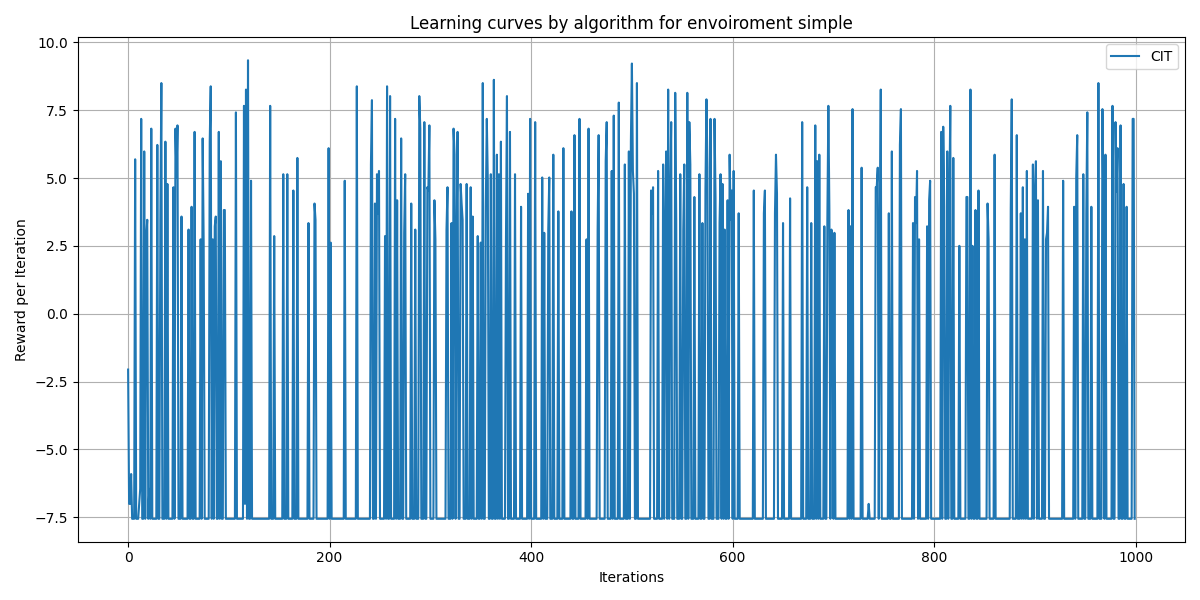
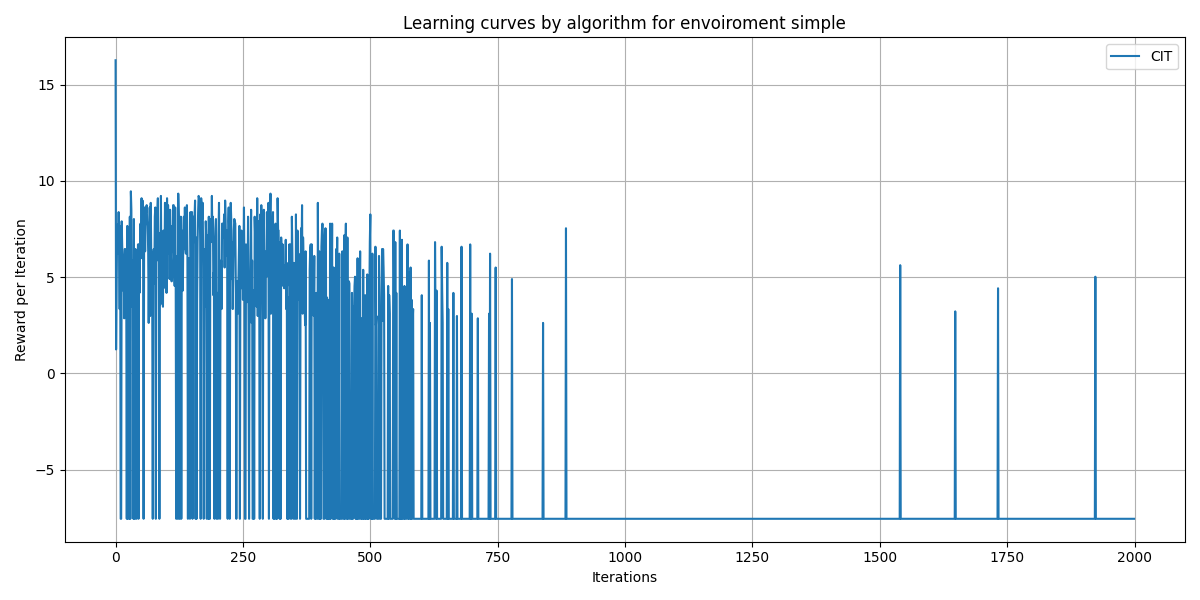
version stable of model

diff --git a/agents/cit_agent.py b/agents/cit_agent.py
@@ -21,12 +21,14 @@ class CITgent:
         self.memory_replay = []  # Neocorteza: rutas con recompensa
         self.familiarity = defaultdict(int)
         self.cortical_memory = [] # Lista de rutas consolidadas
+        
+        self.previous_position = None # Memoria del paso inmediatamente anterior para evitar el ping-pong
 
     def consolidate(self, path, total_reward):
         """Consolida una ruta aprendida si fue eficiente."""
         if not path or len(path) <= 1:
             return
-        
+
         if total_reward < -100:
             return
 
@@ -39,6 +41,7 @@ class CITgent:
 
     def train(self, epsilon=0.1):
         obs, _ = self.env.reset()
+        self.previous_position = None
         self.last_position = tuple(obs)
         total_reward = 0
         path = [self.last_position]
@@ -46,11 +49,12 @@ class CITgent:
         truncated = False
 
         while not (terminated or truncated):
-            action = self.explore(self.last_position, epsilon)
+            action = self.explore(self.last_position, epsilon, prev_pos=self.previous_position)
             next_obs, reward, terminated, truncated, _ = self.env.step(action)
             next_pos = tuple(next_obs)
 
             self.update_hippocampus(self.last_position, next_pos)
+            self.previous_position = self.last_position
             self.last_position = next_pos
             path.append(next_pos)
 
@@ -66,32 +70,58 @@ class CITgent:
 
     def predict(self, obs):
         current = tuple(obs)
+        valid_actions = self.env.get_possible_actions(current)
 
-        # Rutas que incluyen la posición actual
+        next_previous_position = current
+
         candidate_paths = [(path, eff) for path, eff in self.cortical_memory if current in path]
-
         if candidate_paths:
-            # Ordenar por (1) posición de `current` en el path (para rutas que lo usan antes)
-            # y (2) eficiencia (opcional)
             candidate_paths.sort(key=lambda x: (x[0].index(current), -x[1]))
-
             best_path, _ = candidate_paths[0]
             idx = best_path.index(current)
+
             if idx + 1 < len(best_path):
                 next_pos = best_path[idx + 1]
-                print(f"[DEBUG] Usando ruta consolidada desde {current} a {next_pos}")
-                return self.direction_from_to(current, next_pos)
+    
+                # <<<<<<< LÓGICA ANTI-PING-PONG >>>>>>>>
+                # ¡No te devuelvas! Si el siguiente paso es volver a donde estaba, ignora este plan.
+                if next_pos == self.previous_position:
+                    print(f"[DEBUG - ANTI PING-PONG] La memoria sugiere volver a {self.previous_position}. Ignorando.")
+                    # Como este plan es malo, pasamos a la siguiente estrategia (planificación)
+                else:
+                    desired_action = self.direction_from_to(current, next_pos)
+                    if desired_action in valid_actions:
+                        self.previous_position = next_previous_position # Actualizar memoria antes de salir
+                        return desired_action
+                    else:
+                        print(f"[DEBUG - ERROR DE MEMORIA] La ruta sugiere un movimiento inválido a {next_pos}. Forzando exploración.")
+                        # Si hay un error, reseteamos la memoria de "previous" para no bloquear la exploración.
+                        self.previous_position = None 
+                        return self.explore(current)
 
-        # Si no hay ruta conocida, usar planificación con el grafo (hipocampo)
-        if current not in self.hippocampus:
-            return self.explore(current)
+        # --- ESTRATEGIA 2: PLANIFICACIÓN DELIBERADA ---
+        path_to_goal = self.plan_path(current, self.goal)
+        if path_to_goal and len(path_to_goal) > 1:
+            next_pos = path_to_goal[1]
 
-        path = self.plan_path(current, self.goal)
-        if len(path) < 2:
-            return self.explore(current)
+            # <<<<<<< LÓGICA ANTI-PING-PONG >>>>>>>>
+            if next_pos == self.previous_position:
+                print(f"[DEBUG - ANTI PING-PONG] El plan sugiere volver a {self.previous_position}. Ignorando.")
+            else:
+                desired_action = self.direction_from_to(current, next_pos)
+                if desired_action in valid_actions:
+                    self.previous_position = next_previous_position # Actualizar memoria antes de salir
+                    return desired_action
+                else:
+                    self.previous_position = None
+                    return self.explore(current)
 
-        next_pos = path[1]
-        return self.direction_from_to(current, next_pos)
+        # --- ESTRATEGIA 3: ÚLTIMO RECURSO ---
+        print(f"[DEBUG - Predict] Modo Fallback: Explorando.")
+        # Cuando exploramos, también es buena idea evitar devolverse.
+        # Puedes modificar `explore` para que también use `self.previous_position`.
+        self.previous_position = None # Reseteamos para no limitar la exploración
+        return self.explore(current)
 
     def plan_path(self, start, goal):
         """
@@ -129,54 +159,35 @@ class CITgent:
         self.hippocampus[current]["neighbors"].add(next_pos)
         self.hippocampus[next_pos]["neighbors"].add(current)
 
-    def explore(self, position, epsilon=0.1):
-        """Explora el entorno considerando solo movimientos válidos y con motivación dopaminérgica."""
+    def explore(self, position, epsilon=0.1, prev_pos=None):
+        """Explora el entorno, evitando devolverse inmediatamente."""
         directions = [(0, -1), (1, 0), (0, 1), (-1, 0)]  # arriba, derecha, abajo, izquierda
-
-        # 1. Obtener acciones válidas
         valid_actions = self.env.get_possible_actions(position)
+        
+        if not valid_actions:  # Seguridad por si el agente se queda atrapado sin salidas
+            return random.randint(0, 3)
 
         scored_moves = []
-
         for action in valid_actions:
             dx, dy = directions[action]
             neighbor = (position[0] + dx, position[1] + dy)
-            novelty_score = 1 / (1 + self.familiarity.get(neighbor, 0) ** 2)
+            
+            # <<<<<<< LÓGICA ANTI-PING-PONG EN EXPLORACIÓN >>>>>>>>
+            if neighbor == prev_pos:
+                novelty_score = -1.0
+            else:
+                novelty_score = 1 / (1 + self.familiarity.get(neighbor, 0) ** 2)
+                
             scored_moves.append((novelty_score, action))
 
-        # 3. ε-greedy: exploración aleatoria
         if random.random() < epsilon:
             return random.choice(valid_actions)
         
-        # 2. Si no hay movimientos válidos, quedarse quieto o devolver random
         if not scored_moves:
-            return random.choice([0, 1, 2, 3])
+            return random.choice(valid_actions)
 
-
-        # 4. Escoge acción con mayor novedad
-        scored_moves.sort(reverse=True)  # mayor novedad primero
+        scored_moves.sort(key=lambda x: x[0], reverse=True) # Ordenar por puntuación (novedad)
         return scored_moves[0][1]
-
-    def neocortex_replay(self, start, goal):
-        if start == goal or goal is None:
-            return [start]
-
-        visited = set()
-        queue = deque([(start, [start])])
-
-        while queue:
-            current, path = queue.popleft()
-            if current in visited:
-                continue
-            visited.add(current)
-
-            for neighbor in self.hippocampus.get(current, {}).get("neighbors", []):
-                if neighbor == goal:
-                    return path + [neighbor]
-                if neighbor not in visited:
-                    queue.append((neighbor, path + [neighbor]))
-
-        return [start]
 
     def direction_from_to(self, current, next_pos):
         dx = next_pos[0] - current[0]

diff --git a/stages/train/agents/cit_agent.py b/stages/train/agents/cit_agent.py
@@ -8,7 +8,7 @@ from stages.utils import (
 
 config = {
     "simple": {
-        "total_timesteps": 1000,
+        "total_timesteps": 2_000,
     },
     "medium": {
         "total_timesteps": 2_000,
@@ -64,8 +64,15 @@ def train_agent(
         print(f"[INFO] Loading model from: {temp_model_file}")
         agent.load(str(temp_model_file))
 
+    initial_epsilon = 1.0
+    min_epsilon = 0.01
+    epsilon_decay_rate = 0.995
+    current_epsilon = initial_epsilon
+
     for episode_num in range(start_iteration, episodes):
-        reward = agent.train()
+        current_epsilon = max(min_epsilon, initial_epsilon * (epsilon_decay_rate ** episode_num))
+        reward = agent.train(epsilon=current_epsilon)
+
         rewards.append(reward)
 
         save_progress(
@@ -80,7 +87,7 @@ def train_agent(
         )
 
         print(
-            f"Episode {episode_num + 1}. Reward: {reward}"
+            f"Episode {episode_num + 1}. Epsilon: {current_epsilon:.4f}. Reward: {reward}"
         )
         episode += 1
 
